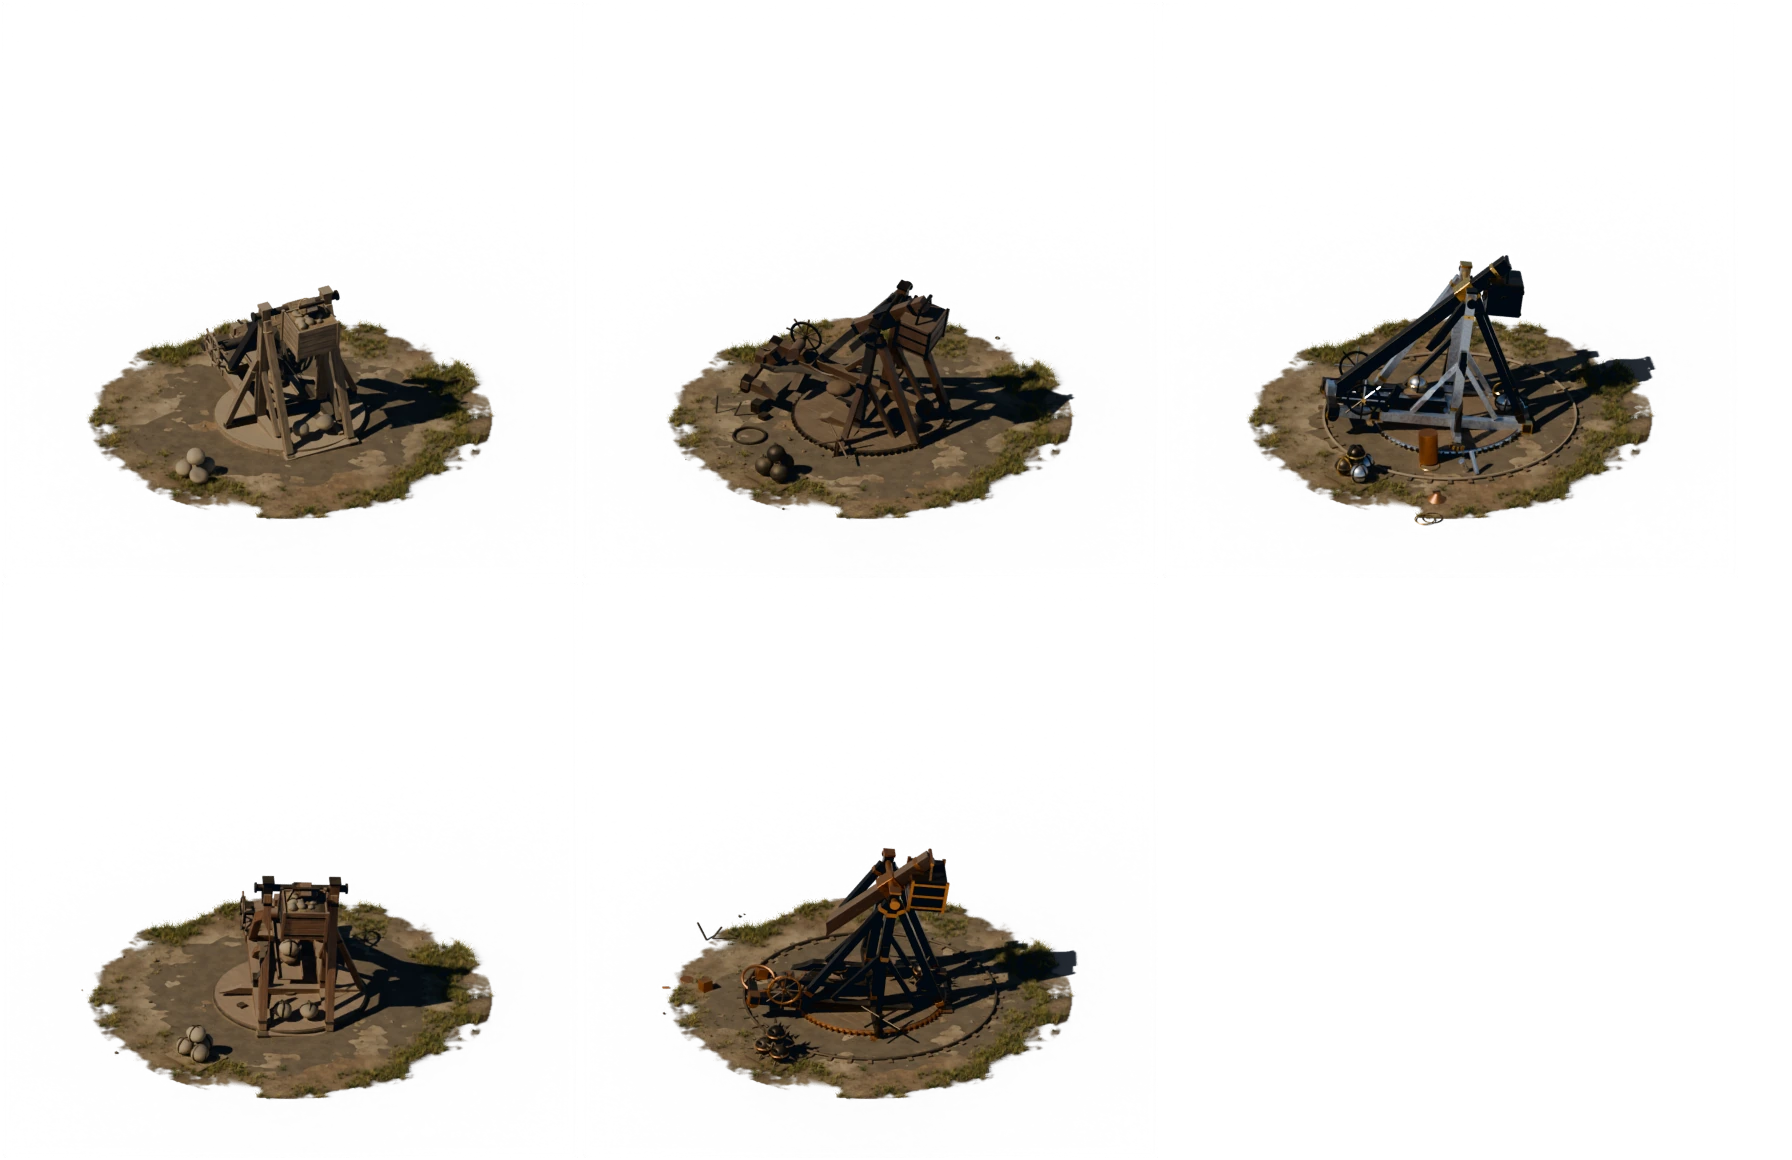
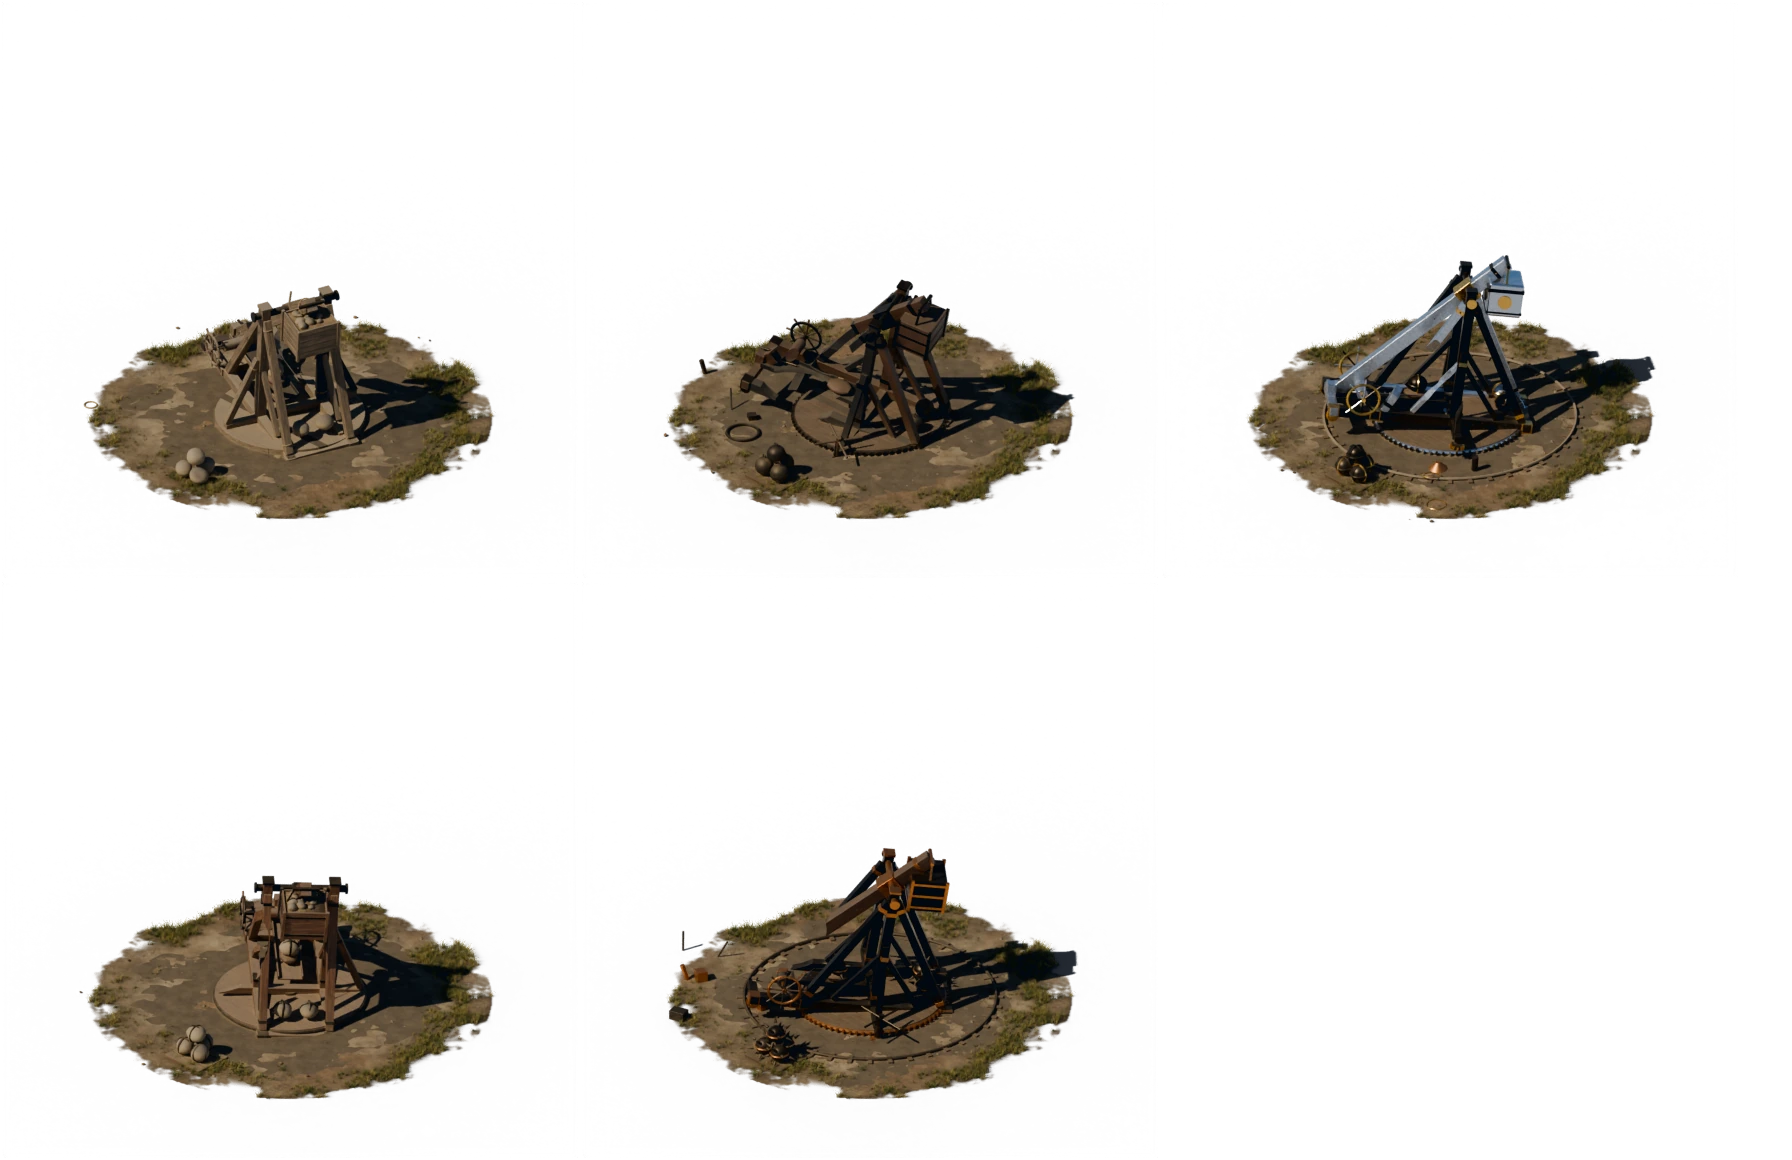
art: ruins keep only part of their debris (lower heaps, less gravel); re-render all damage states and gun wrecks
Claude-Session: https://claude.ai/code/session_01RjoRvJnVjVFTKFCatVx85i

diff --git a/art/pipeline/strelite_art/damage.py b/art/pipeline/strelite_art/damage.py
@@ -600,6 +600,14 @@ def apply(scene, state, seed=1, footprint=4.0, hit=None, tilt=None, style="photo
                 pieces = nxt
         debris.extend(pieces)
 
+    # a ruin is not all of its material: much was carried off, burnt or blown away
+    keep_frac = {"damaged": 0.5, "rubble": 0.4, "wreck": 0.6}[state]
+    rnd.shuffle(debris)
+    n_keep = int(len(debris) * keep_frac)
+    for o in debris[n_keep:]:
+        bpy.data.objects.remove(o)
+    debris = debris[:n_keep]
+
     # --- what the debris lands on ------------------------------------------------------
     beds = []
     if state == "damaged":
@@ -608,7 +616,7 @@ def apply(scene, state, seed=1, footprint=4.0, hit=None, tilt=None, style="photo
                          "dirt_fill"))
     elif state == "rubble":
         mr = Vector(((cx1 - cx0) / 2 + 0.9, (cy1 - cy0) / 2 + 0.9, 0))
-        mh = min(1.1, 0.25 + 0.18 * top) * heap_scale
+        mh = min(0.7, 0.15 + 0.11 * top) * heap_scale
         beds.append(_bed(k, "rubble_bed", ((cx0 + cx1) / 2, (cy0 + cy1) / 2), mr.x, mr.y, mh, rnd, "dirt_fill"))
         beds.append(_bed(k, "dust_bed", ((cx0 + cx1) / 2, (cy0 + cy1) / 2), mr.x + 0.7, mr.y + 0.7, 0.06, rnd, "ash",
                          n=30))
@@ -617,7 +625,7 @@ def apply(scene, state, seed=1, footprint=4.0, hit=None, tilt=None, style="photo
 
     # gravel: small stones of the removed materials
     mats = [_mat_name(o) for o in debris] or ["stone"]
-    n_gravel = {"damaged": 220, "rubble": 450, "wreck": 60}[state]
+    n_gravel = {"damaged": 140, "rubble": 280, "wreck": 45}[state]
     for i in range(n_gravel):
         m = rnd.choice(mats)
         if any(w in m for w in WOOD):

diff --git a/art/SOP.md b/art/SOP.md
@@ -454,7 +454,7 @@ Built so far: `hq`, `lab`, `muster` (Военно свикване; its mark is 
 **Damage states (buildings and guns)** — `strelite_art/damage.py`, applied after `build()` and before `stamp()`; never model a damaged version by hand, and never lay debris in a heap by formula (it reads as Lego).
 
 - The destroyed region is a lumpy blob (`damaged`: the upper front-right corner, the roof above it falls in so light reaches the room; `wreck`: a blast on one side of a gun) or a noisy height field (`rubble`: ragged stumps, one corner left higher). Pieces under 1.5 m (blocks, planks, shingles, panels, gun parts) come out whole when their centre is inside, so masonry breaks along its joints; bigger pieces are cut by the same shape with a boolean. Hidden layers (mortar, decks) are cut a little wider so they never show.
-- The pieces taken out are the debris: stone blocks split two or three times along random planes, planks and beams snap with slanted ends, plus gravel and broken rafters. Everything falls under Bullet rigid bodies (`_simulate`, with a short outward blast for `damaged` and `wreck`) onto a ragged dust bed, the floor and the remaining walls. The inner `core` is removed so the room shows through the breach.
+- The pieces taken out are the debris: stone blocks split two or three times along random planes, planks and beams snap with slanted ends, plus gravel and broken rafters. Only part of it stays (about half for `damaged`, 40% for `rubble`, 60% for `wreck`): a ruin has lost material that was carried off, burnt or blown away, so never keep 100%. Everything falls under Bullet rigid bodies (`_simulate`, with a short outward blast for `damaged` and `wreck`) onto a ragged dust bed, the floor and the remaining walls. The inner `core` is removed so the room shows through the breach.
 - Soot fades out from the hit (`stone_soot`, `timber_charred`, `paint_soot`). `occupied` = `damage.occupy()` then `damaged`.
 - A model with contents that must not be cut defines `damage_hook(scene, state, info, phase)`; the treasury rebuilds its gold and returns the coins, which fall with the debris.
 - Loose small things (coins) are always dropped with physics and settle on a low solid body, never laid on a surface or made as one flowing mesh.
